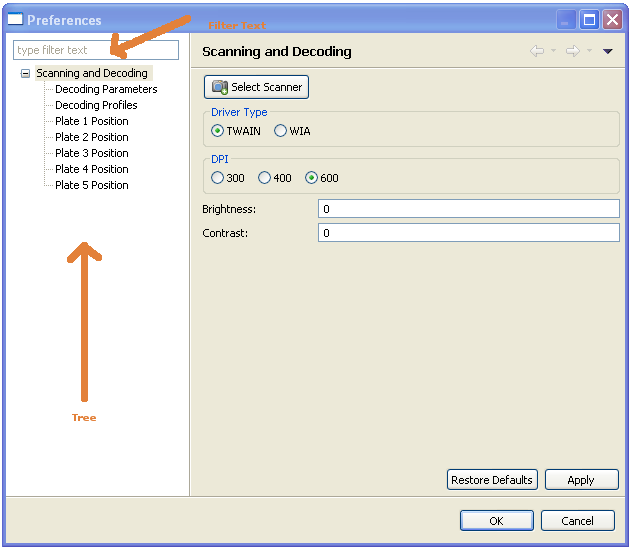
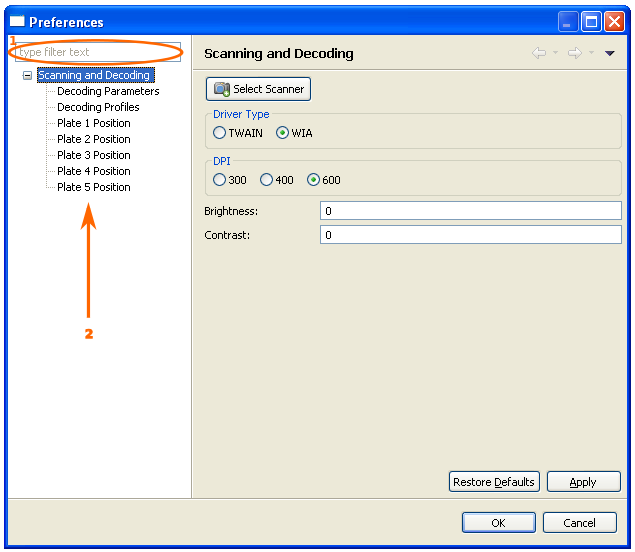
working on user guide

Changed region(s): [[0.0, 0.0, 1.0, 1.0]]

diff --git a/docs/userGuide/overview.tex b/docs/userGuide/overview.tex
@@ -22,19 +22,20 @@ to scan a single pallet.
 	   \caption{The CBSR Sample Scanner's main window.}
 	   \label{fig:main_window}
 \end{figure}
-\begin{enumerate}
-\item The \emph{Main Menu} allows the user access to the different
-  functions provided by the software (see section \ref{sec:main_menu} for a
-  description of the menu items).
-\item The product barcode of the pallet to be scanned. This product ID is
-  used in the output file.
-\item The \emp{Decoding Profile} to be used. Scanning profiles are described in
-  detail in section \ref{sec:decoding_profiles}.
-\item This part of the window shows the decoded product IDs of the tubes
-  that were decoded for each pallet.
-\item The status bar is used to display the current state of the
+\begin{description}
+\item[Main Menu] (labelled \emph{1}) allows the user access to the
+  different functions provided by the software (see section \ref{sec:main_menu}
+  for a description of the menu items).
+\item [Pallet Product Barcode] (labelled \emph{2}) of the pallet to be
+  scanned. This product ID is used in the output file.
+\item [Decoding Profile] (labelled \emph{3}) scanning profiles control which
+  tubes on the pallet will be decoded. Profiles are described in detail in
+  section \ref{sec:decoding_profiles}.
+\item [Decode Results] (labelled \emph{4}) This part of the window shows the
+  decoded product IDs of the tubes that were decoded for each pallet.
+\item [Status Bar] (labelled \emph{5}) is used to display the current state of the
   application. It is usually updated after the user has completed a task.
-\end{enumerate}
+\end{description}
 
 \section{Main Menu}
 \label{sec:main_menu}

diff --git a/docs/userGuide/configuration.tex b/docs/userGuide/configuration.tex
@@ -9,10 +9,11 @@ The configuration settings for the Java Client can be found by selecting
       \caption{Configuration preferences dialog box.}
       \label{fig:preferences_dialog}
     \end{figure}
-A configuration page can be selected by clicking on a node on the
-tree on the left hand side of the dialog box. The \texttt{filter text} box can
-be used to quickly find a configuration page by typing the name of the page in
-whole or in part.
+A configuration page can be selected by clicking on a node on the tree on the
+left hand side of the dialog box (labelled \emph{2} in figure
+\ref{fig:preferences_dialog}). The \texttt{filter text} box (labelled \emph{1})
+can be used to quickly find a configuration page by typing the name of the page
+in whole or in part.
 
 The following sections discuss the configuration pages in detail.
 
